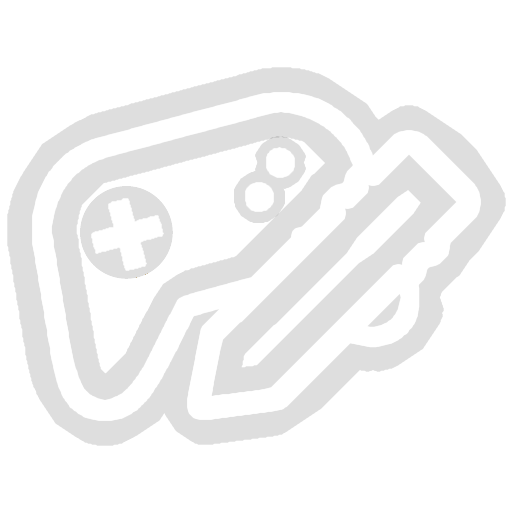
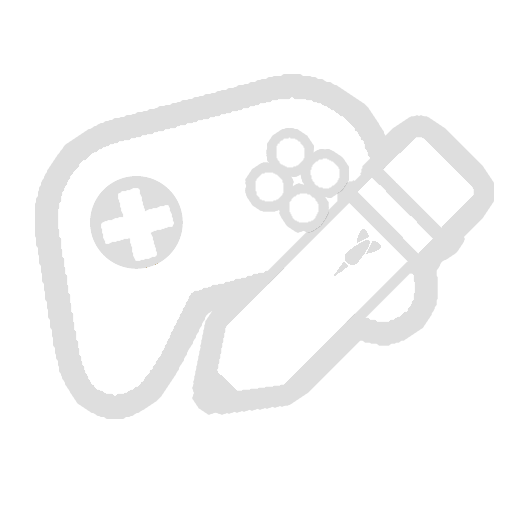
Round Set Changer / Apopalypse changes, minor fixes

diff --git a/BloonsTD6 Mod Helper/UI/Modded/RoundSetChanger.cs b/BloonsTD6 Mod Helper/UI/Modded/RoundSetChanger.cs
@@ -5,12 +5,14 @@ using BTD_Mod_Helper.Api;
 using BTD_Mod_Helper.Api.Bloons;
 using BTD_Mod_Helper.Api.Components;
 using BTD_Mod_Helper.Api.Enums;
+using Il2CppAssets.Scripts;
 using Il2CppAssets.Scripts.Unity.Menu;
 using Il2CppAssets.Scripts.Unity.UI_New;
 using Il2CppAssets.Scripts.Unity.UI_New.InGame;
 using Il2CppAssets.Scripts.Unity.UI_New.Main.Facebook;
 using Il2CppAssets.Scripts.Unity.UI_New.Main.MapSelect;
 using UnityEngine;
+using UnityEngine.SceneManagement;
 using UnityEngine.UI;
 namespace BTD_Mod_Helper.UI.Modded;
 
@@ -25,8 +27,9 @@ public static class RoundSetChanger // TODO make this internal, add alt way to g
 
     private static readonly string[] ShowOnMenus =
     {
-        "DifficultySelectUI", "ModeSelectUI",
-        "DifficultySelectScreen", "ModeSelectScreen"
+        SceneNames.DifficultySelectUI,
+        SceneNames.ModeSelectUI,
+        SceneNames.ChallengeEditorPlay
     };
 
     private static ModHelperPanel buttonPanel;

diff --git a/BloonsTD6 Mod Helper/Patches/UI/UI_ApplyExtraNotInSimModelSettings.cs b/BloonsTD6 Mod Helper/Patches/UI/UI_ApplyExtraNotInSimModelSettings.cs
@@ -1,0 +1,20 @@
+using BTD_Mod_Helper.UI.Modded;
+using Il2CppAssets.Scripts.Models;
+using Il2CppAssets.Scripts.Simulation.Track.RoundManagers;
+using Il2CppAssets.Scripts.Unity.Bridge;
+
+namespace BTD_Mod_Helper.Patches.UI;
+
+[HarmonyPatch(typeof(Il2CppAssets.Scripts.Unity.UI_New.UI), nameof(Il2CppAssets.Scripts.Unity.UI_New.UI.ApplyExtraNotInSimModelSettings))]
+internal static class UI_ApplyExtraNotInSimModelSettings
+{
+    [HarmonyPostfix]
+    internal static void Postfix(UnityToSimulation uts, GameModel model)
+    {
+        if (!string.IsNullOrEmpty(RoundSetChanger.RoundSetOverride) && model.isApopalypse)
+        {
+            var roundManager = new DefaultRoundManager(model);
+            uts.InitRoundSet(roundManager);
+        }
+    }
+}

diff --git a/BloonsTD6 Mod Helper/Patches/UI/PauseScreen_Open.cs b/BloonsTD6 Mod Helper/Patches/UI/PauseScreen_Open.cs
@@ -1,4 +1,5 @@
-using BTD_Mod_Helper.Api;
+using System.Linq;
+using BTD_Mod_Helper.Api;
 using BTD_Mod_Helper.UI.Menus;
 using BTD_Mod_Helper.UI.Modded;
 using Il2CppAssets.Scripts.Unity.UI_New.Pause;
@@ -68,7 +69,7 @@ internal static class PauseScreen_Open
         image.SetSprite(sprite);
         
         var modsText = modsBtn.GetComponentInChildren<NK_TextMeshProUGUI>();
-        modsText.localizeKey = ModsButton.Mods;
+        modsText.localizeKey = $"[{ModsButton.Mods}] ({ModHelper.Melons.Count()})";
         modsText.SetText(ModsButton.Mods.Localize());
         
     }

diff --git a/BloonsTD6 Mod Helper/MelonMain.cs b/BloonsTD6 Mod Helper/MelonMain.cs
@@ -88,6 +88,15 @@ internal partial class MelonMain : BloonsTD6Mod
             loadErrors.Add("MelonLoader versions higher than 0.6.1 are not yet considered stable for BloonsTD6. " +
                            "Please downgrade to MelonLoader 0.6.1 via its installer for best results.");
         }
+
+        try
+        {
+            FileDialogHelper.PrepareNativeDlls();
+        }
+        catch (Exception e)
+        {
+            ModHelper.Warning(e);
+        }
     }
 
     public override void OnUpdate()

diff --git a/BloonsTD6 Mod Helper/ModHelper.cs b/BloonsTD6 Mod Helper/ModHelper.cs
@@ -16,7 +16,7 @@ namespace BTD_Mod_Helper;
 public static class ModHelper
 {
     internal const string Name = "BloonsTD6 Mod Helper";
-    internal const string Version = "3.2.0";
+    internal const string Version = "3.2.1";
     internal const string RepoOwner = "gurrenm3";
     internal const string RepoName = "BTD-Mod-Helper";
     internal const string Description =

diff --git a/BloonsTD6 Mod Helper/Api/Helpers/FileDialogHelper.cs b/BloonsTD6 Mod Helper/Api/Helpers/FileDialogHelper.cs
@@ -7,7 +7,7 @@ namespace BTD_Mod_Helper.Api.Helpers;
 /// </summary>
 public static class FileDialogHelper
 {
-    private static readonly string[] Dlls = {"nfd.dll", "nfd_x86.dll"};
+    private static readonly string[] Dlls = ["nfd.dll", "nfd_x86.dll"];
 
     /// <summary>
     /// Ensure that the NFD native dlls are present in the game root folder

diff --git a/BloonsTD6 Mod Helper/LATEST.md b/BloonsTD6 Mod Helper/LATEST.md
@@ -1,59 +1,7 @@
-## Misc Updates
-
-- Added a button that lets you open the Mods Menu from the In Game Pause Screen
-  - This includes opening Mod Settings menus, but not many settings yet will probably live update in a game
-- Added a button in the Mods Menu that can display the SHA 256 hashes of active mods
-- Added a new `ModTower.IncludeInMonkeyTeams` override
-- Fixed some inconsistencies where some simulation behavior extensions would throw exceptions instead of just returning null
-- ModHelperData now supports multiline raw strings for descriptions, [example](https://github.com/doombubbles/ability-choice/blob/699658591855043372a128294de679670600e3c1/ModHelperData.cs#L10)
-
-## Localization Updates
-
-### General
-
-- Added a new button in the Mods Menu to export a mod's localization to a json file, which can be edited to change its
-  supported displayed text for your language
-  - This goes to a newly added subfolder `Mods/BloonsTD6 Mod Helper/Localization/[Language]`
-  - Edits to files here should refresh the text without requiring a game restart
-- Added a new [Translation Tool page on the website](https://gurrenm3.github.io/BTD-Mod-Helper/tools/translate) that can
-  easily put Localization files through Google translate for individual or all supported languages
-  - Using this tool, Mod Helper now contains Localizations for all supported BTD6 language. If you see a way that
-    one/many of the Google Translations could be improved for your language, you can help out by submitting edits to
-    the [corresponding Language file](https://github.com/gurrenm3/BTD-Mod-Helper/tree/master/BloonsTD6%20Mod%20Helper/Localization) through GitHub
-- The text in mods that should be automatically supported for localization editing includes
-  - Names and Descriptions for Towers, Upgrades, Heroes, Bloons etc
-  - Names and Descriptions for Mod Settings
-  - General mod info like the description
-
-### For Modders
-
-- The standard btd6.targets import will now automatically embed `/Localization/[Language].json` files in your mod
-  project
-  - Use the Localization Button on your own mod with active language English to get a starter .json for your mod
-  - If you paste in the .json content on the website and press the "Translate All" button it will create a .zip file
-    with all the correctly named .json files you'd need for your mod
-- ModHelperText and ModHelperDropdown components now Localize their texts by default
-- For Localization Entries, putting text within [Square Brackets] will make it try to fetch existing localization for
-  that key
-  - e.g. `The description is [DartMonkey Description]` ->
-    `The description is Throws a single dart at nearby Bloons. Short range and low pierce but cheap.`
-- Added new `ModContent.Localize` methods that can add new mod specific localizations from variables
-  ```csharp
-  private static readonly string DoTheThing = ModContent.Localize<MyMod>(nameof(DoTheThing), "Do The Thing!");
-  ```
-  Or within any method/constructor that's going to run as the game loads
-  ```csharp
-  var doTheThing = ModContent.Localize(nameof(DoTheThing), "Do The Thing!");
-  ```
-  The result assigned to the `DoTheThing` is your mod specific localization key, that you can use in a
-  `ModHelperText.SetText(DoTheThing)` directly or as `string localizedText = DoTheThing.Localize()` otherwise
-- As before, you can still override the `RegisterText` method in any class that extends `NamedModContent` to
-  directly add extra stuff to the text table
-  ```csharp
-  public override void RegisterText(Il2CppSystem.Collections.Generic.Dictionary<string, string> textTable)
-  {
-      base.RegisterText(textTable); // Call the base to still register DisplayName / Description
-            
-      textTable[Id + " Long Description"] = LongDescription; // More specific stuff to your ModContent
-  }
-  ```
+- Pause Screen Mods Button now shows number of active mods
+- Updated icon for Pause Screen mods button
+- Made it less likely for other mods to have errors if they tried to use file/folder picker popups outside standard mod settings
+- Apopalypse Mode is now correctly affected by the Round Set changer
+- Made the Round Changer button also show up in the Challenge Editor Play screen
+  - Note: The Round Set Changer would always technically apply to challenges, this is just making it clearer and easier
+    to change without going back to the normal map play screens

diff --git a/Documentation/BTD_Mod_Helper.BloonsMod.md b/Documentation/BTD_Mod_Helper.BloonsMod.md
@@ -252,3 +252,13 @@ public virtual void OnSaveSettings(JObject settings);
 `settings` [Newtonsoft.Json.Linq.JObject](https://docs.microsoft.com/en-us/dotnet/api/Newtonsoft.Json.Linq.JObject 'Newtonsoft.Json.Linq.JObject')
 
 The json representation of the settings about to be saved
+
+<a name='BTD_Mod_Helper.BloonsMod.SaveModSettings()'></a>
+
+## BloonsMod.SaveModSettings() Method
+
+Saves the current mod settings for this mod
+
+```csharp
+public void SaveModSettings();
+```
